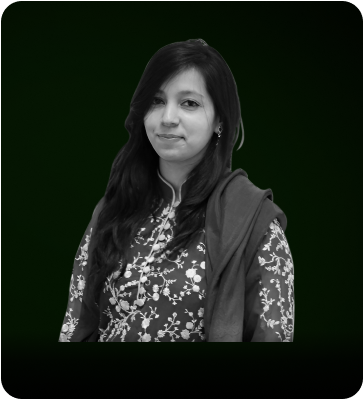
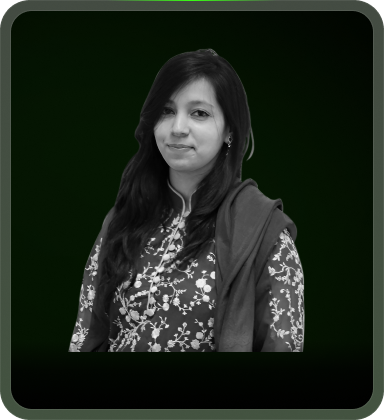
img section

diff --git a/src/components/TeamSection/TeamSection.css b/src/components/TeamSection/TeamSection.css
@@ -1,6 +1,6 @@
 body {
   margin: 0;
-  background: #000;
+  /* background: #000; */
   color: white;
 }
 
@@ -15,7 +15,7 @@ body {
 .team-members__grid {
   display: grid;
   grid-template-columns: repeat(auto-fit, minmax(240px, 1fr));
-  gap: 2rem;
+  gap: 1rem;
   width: 100%;
   max-width: 1000px;
 }
@@ -24,40 +24,39 @@ body {
   position: relative;
   display: flex;
   flex-direction: column;
- border: 10px solid #43503f;
-
-  border-radius: 20px;
-  overflow: hidden;
   transition: transform 0.3s ease, box-shadow 0.3s ease;
   text-decoration: none;
 }
 
 /* .team-card:hover {
   transform: translateY(-5px);
-  box-shadow: 0 0 30px rgba(0, 150, 255, 0.2),
-              0 0 15px rgba(0, 150, 255, 0.1);
+  box-shadow: 0 0 30px #70B22F26,
+              0 0 15px #70B22F26;
 } */
 
 .team-card__img {
   width: 100%;
-  height: 350px;
-  object-fit: cover;
-  /* border-bottom: 1px solid rgba(255, 255, 255, 0.1); */
+  height: auto;
+  object-fit: contain;
+  display: block;
+   
+  
 }
 
 .team-card__info {
   position: absolute;
-  bottom: 1rem;
+  bottom: 2rem;
   left: 1rem;
   right: 1rem;
   background: #000000;
   backdrop-filter: blur(8px);
   border-radius: 1rem;
-  padding: 0.5rem;
+  padding: 1rem;
   display: flex;
   justify-content: space-between;
   align-items: center;
   z-index: 2;
+  border: 1px solid #70B22F26;
 }
 
 .team-card__text {

diff --git a/src/components/TeamSection/TeamSection.jsx b/src/components/TeamSection/TeamSection.jsx
@@ -4,31 +4,31 @@ import "./TeamSection.css";
 const teamMembers = [
   {
     name: "Rameez Javed",
-    role: "CEO",
+    role: "CEO & Founder",
     image: "/images/Rameez.png",
     linkedin: "https://www.linkedin.com/in/danielreed",
   },
   {
     name: "Fawad Khan",
-    role: "Co-Founder",
+    role: "COO & Co-Founder",
     image: "/images/Fawad.png",
     linkedin: "https://www.linkedin.com/in/jamesturner",
+  },
+  {
+    name: "Shahzaib Bhatti",
+    role: "CTO MarQsoftware House",
+    image: "/images/Shahzaib.png",
+    linkedin: "https://www.linkedin.com/in/michaelcarter",
   },
   {
     name: "Daniel Wimberly",
     role: "Regional Partner",
     image: "/images/Daniel.png",
-    linkedin: "https://www.linkedin.com/in/michaelcarter",
-  },
-  {
-    name: "Shahzaib Bhatti",
-    role: "CEO MarQsoftware House",
-    image: "/images/Shahzaib.png",
     linkedin: "https://www.linkedin.com/in/williamscott",
   },
   {
     name: "Maheen Malik",
-    role: "Junior Partner",
+    role: "CMO & Junior Partner",
     image: "/images/Maheen.png",
     linkedin: "https://www.linkedin.com/in/ethanmitchell",
   },
